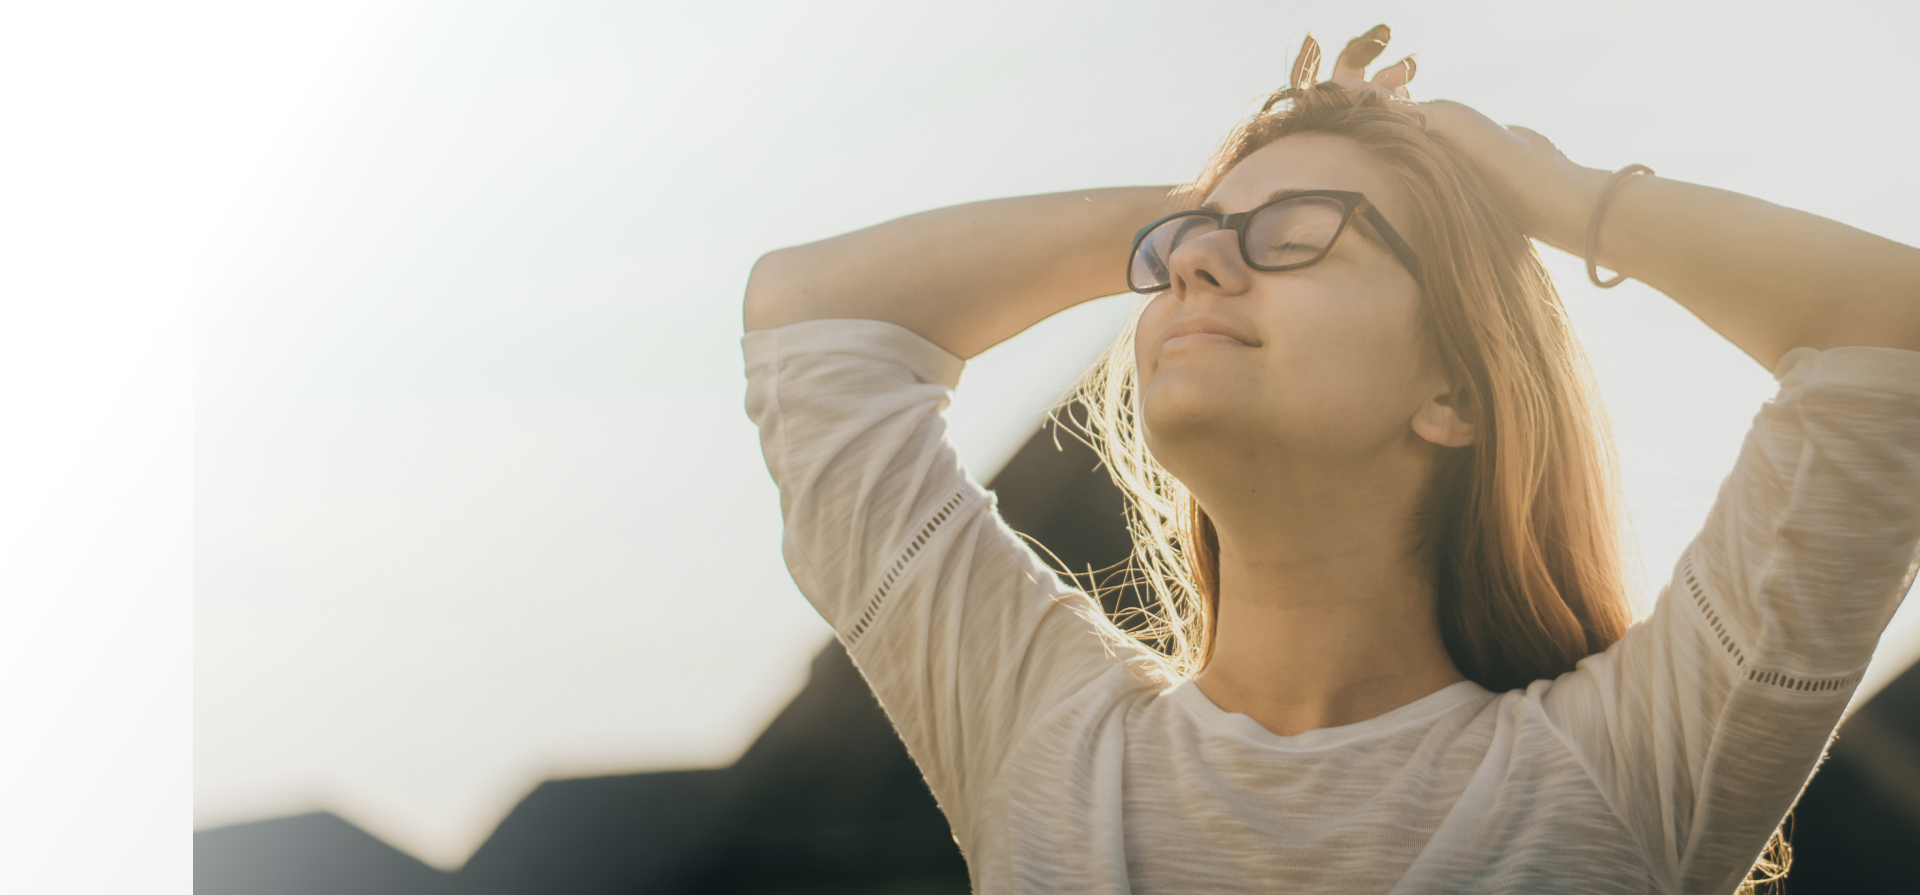
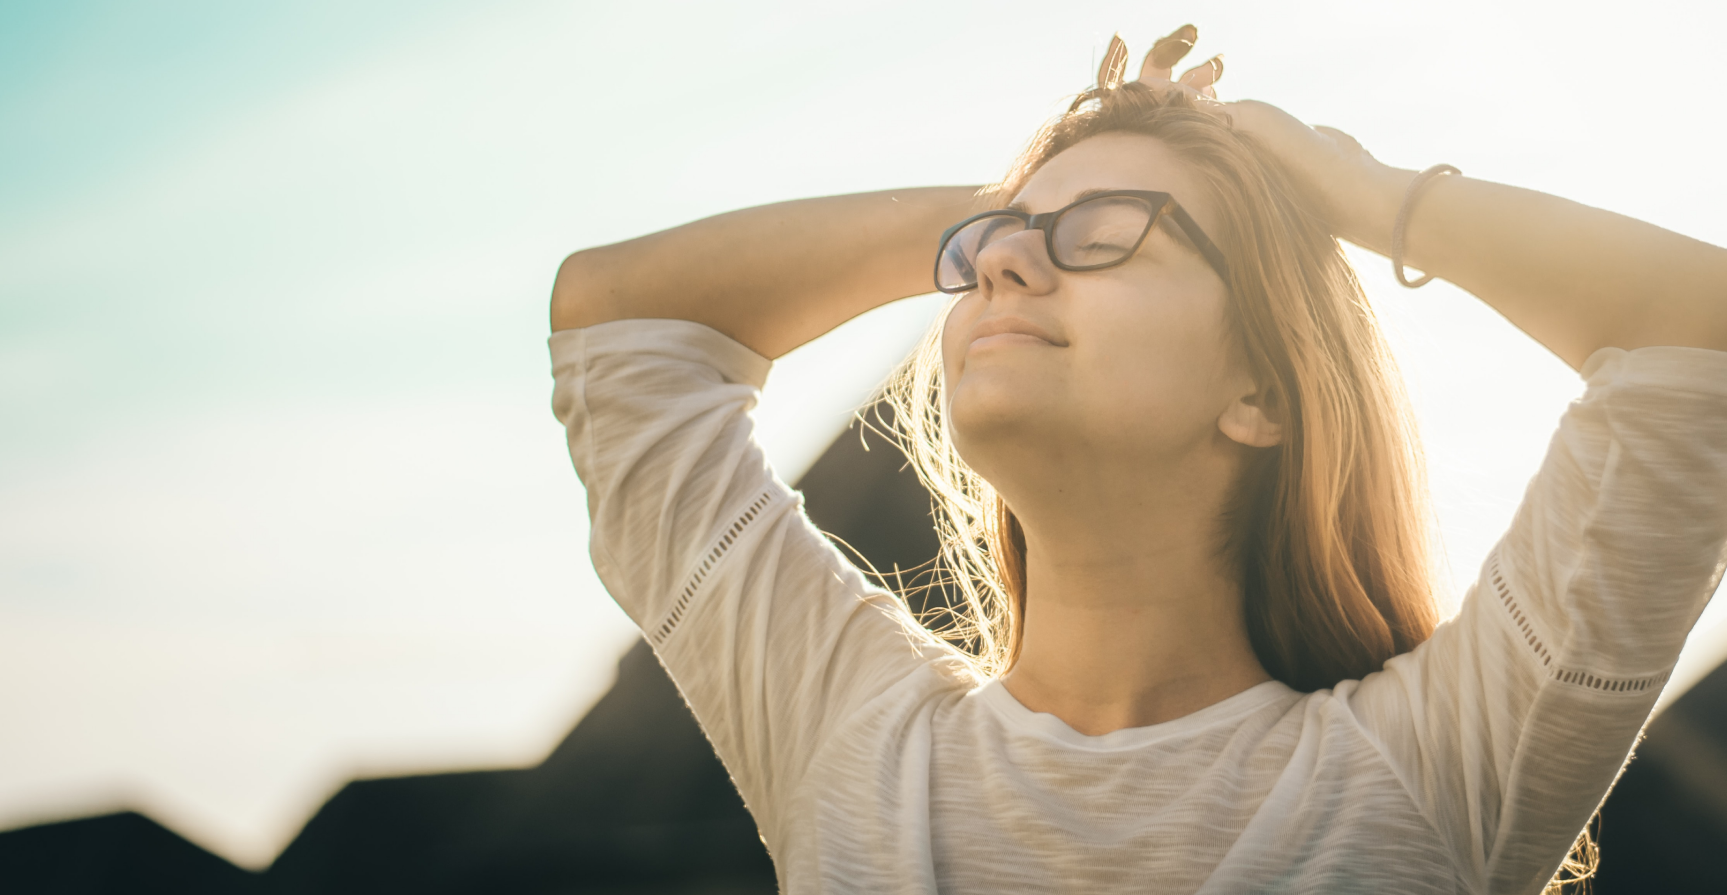
fixed intro section

diff --git a/css/style.css b/css/style.css
@@ -6,6 +6,7 @@
 .container {
     max-width: 1370px;
     margin: 0 auto;
+    padding: 0 10px;
 }
 
 /* header */
@@ -85,9 +86,23 @@ a {
 
 .intro {
     height: calc(100vh - 82.6px);
+    margin-bottom: 175px;
+    position: relative;
+    box-shadow: 0px 4px 4px rgba(0, 0, 0, 0.25);
+    background: linear-gradient(112.58deg, #FFFFFF 18.15%, rgba(255, 255, 255, 0) 53.07%), rgba(0, 0, 0, 0.1);
+    position: relative;
+}
+
+.intro::after{
+    content: '';
     background-image: url(../images/bg.png);
     background-size: cover;
-    margin-bottom: 175px;
+    width: 90%;
+    height: 100%;
+    position: absolute;
+    left: 10%;
+    top: 0;
+    z-index: -1;
 }
 
 .intro .intro__wrapper {
@@ -219,7 +234,7 @@ a {
 
 .advices .advices__wrapper .two h2::after {
     content: 'Write & Understand';
-    left: 20%;
+    left: 19%;
 }
 
 .advices .advices__wrapper .three {
@@ -321,7 +336,7 @@ a {
     background-image: url(../images/video.png);
     background-size: cover;
     background-repeat: no-repeat;
-    width: 100%;
+    width: 90%;
     border-radius: 12px;
     margin: 0 auto;
     display: flex;
